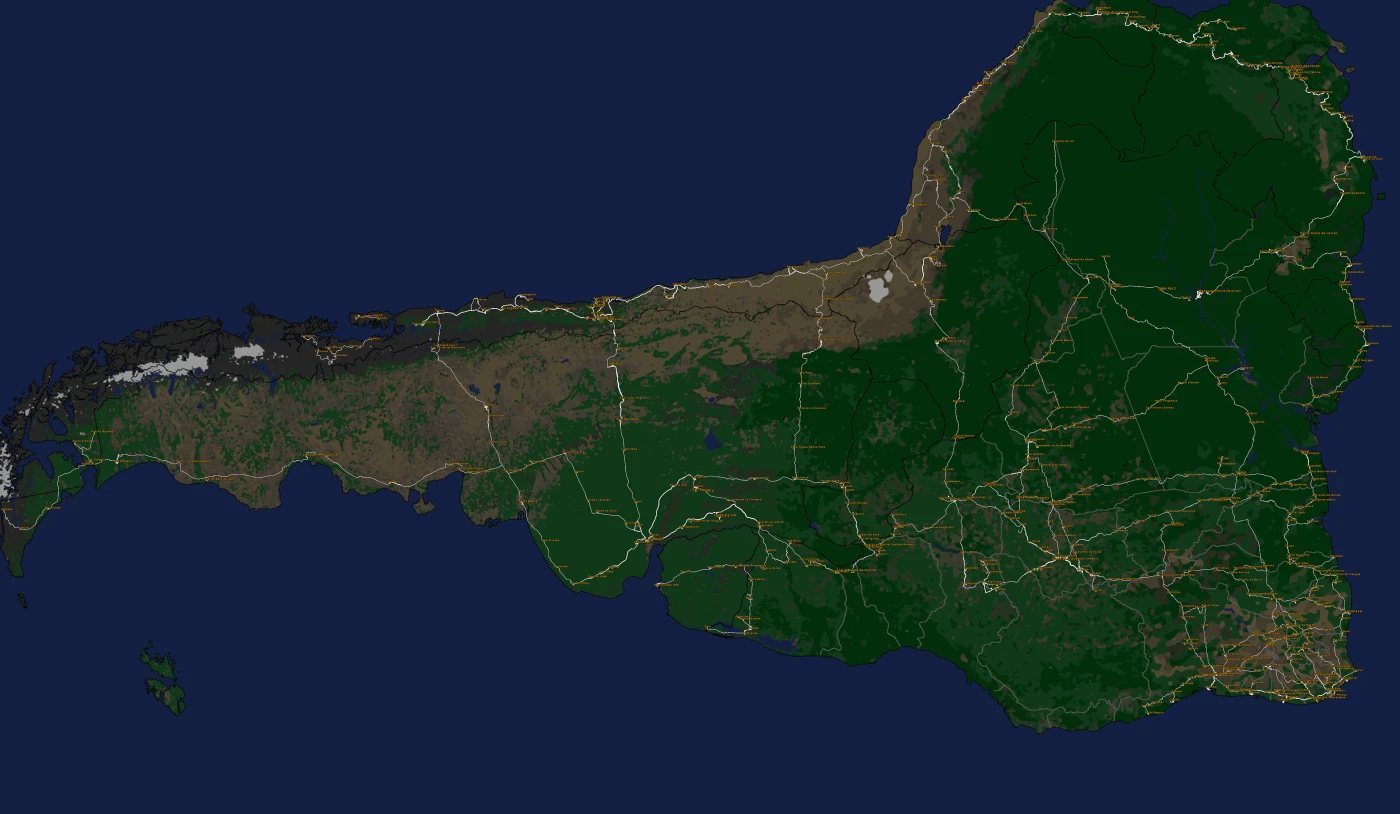
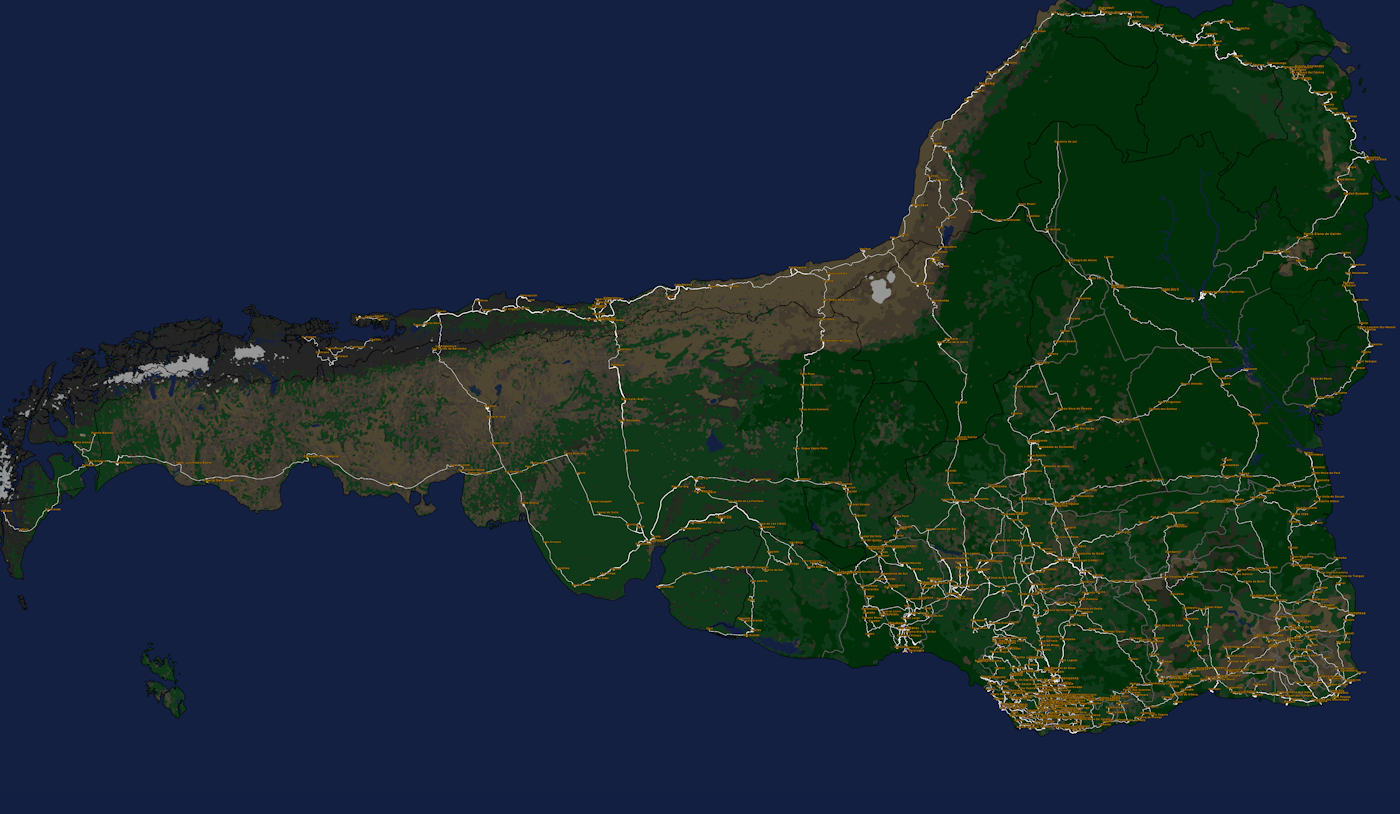
hgfjfgjgfjgfjgf

Changed region(s): [[0.0, 0.0, 1.0, 0.9214], [0.0921, 0.7985, 0.1229, 0.86]]

diff --git a/mods.js b/mods.js
@@ -290,6 +290,11 @@ and fixes many issues that EAA had when being combined with other maps -
     etsCompat: "1.62",
     downloads: [
       {
+        label: "Download v3.3",
+        url: "https://mods.to/FKiX6b02167abaac4",
+        changelog: "<p><strong>v3.3 for 1.62</strong></p><p>Rescaled more of EAA Brazil, special thanks and credit to Simón Mercosur!, and integrated and merged Heart of Brazil (former EAA Rescaled Addon)</p>"
+      },
+      {
         label: "Download v3.2",
         url: "https://mods.to/UhfV6afb45a801c1c",
         changelog: "<p><strong>v3.2 for 1.62</strong></p><p>Fixed crash on startup related to coaches and added bus stop across the entire map</p>"
